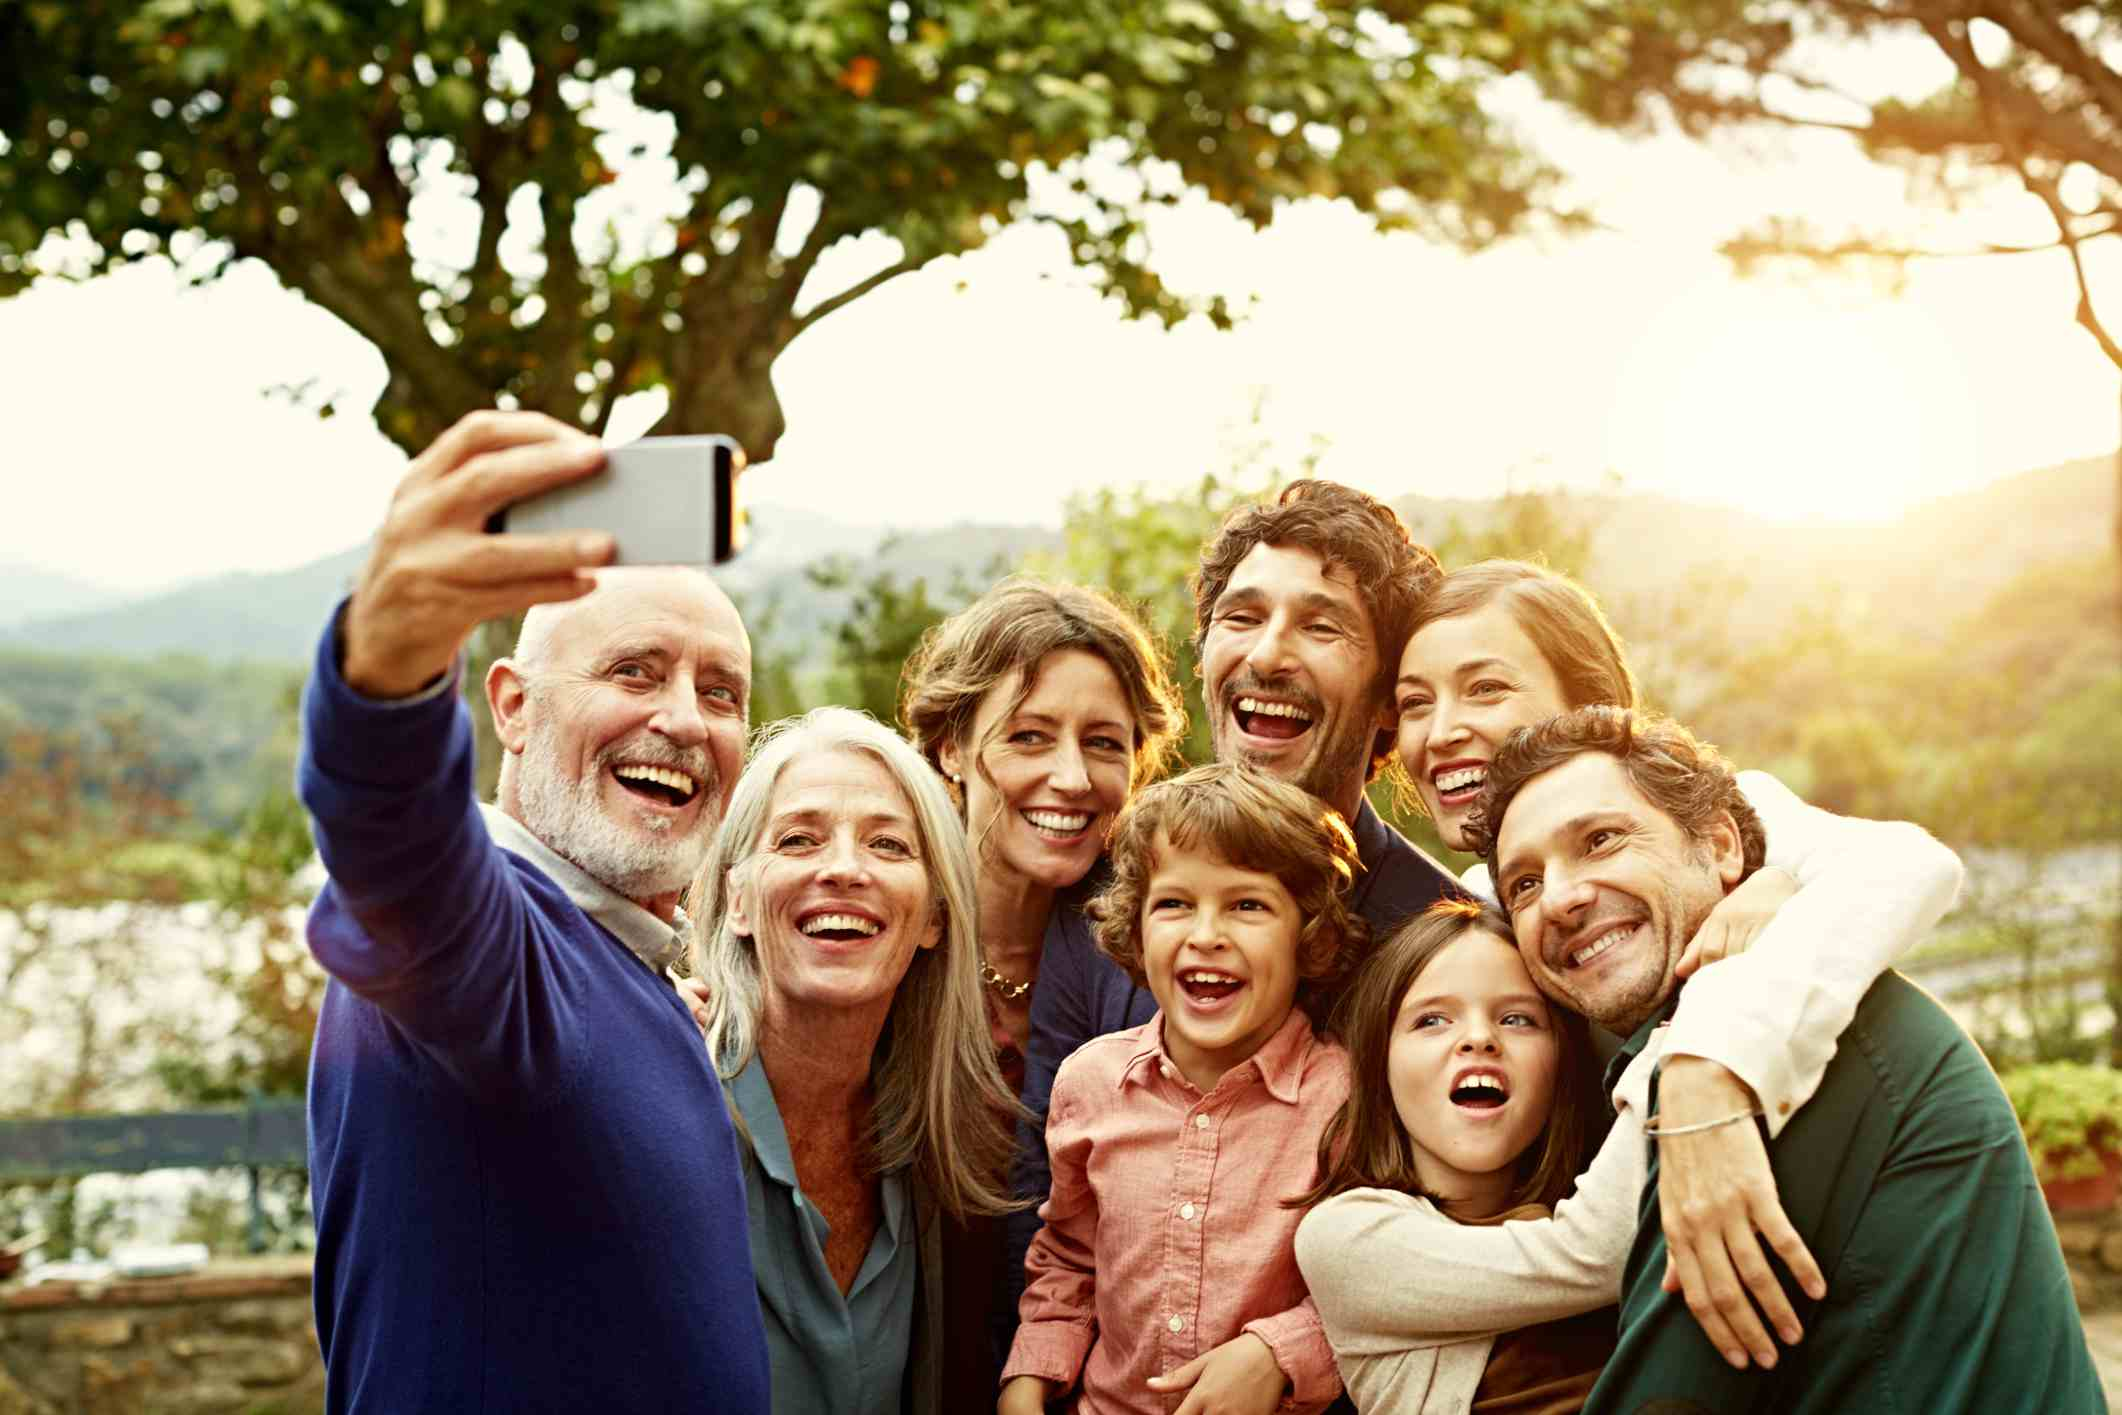
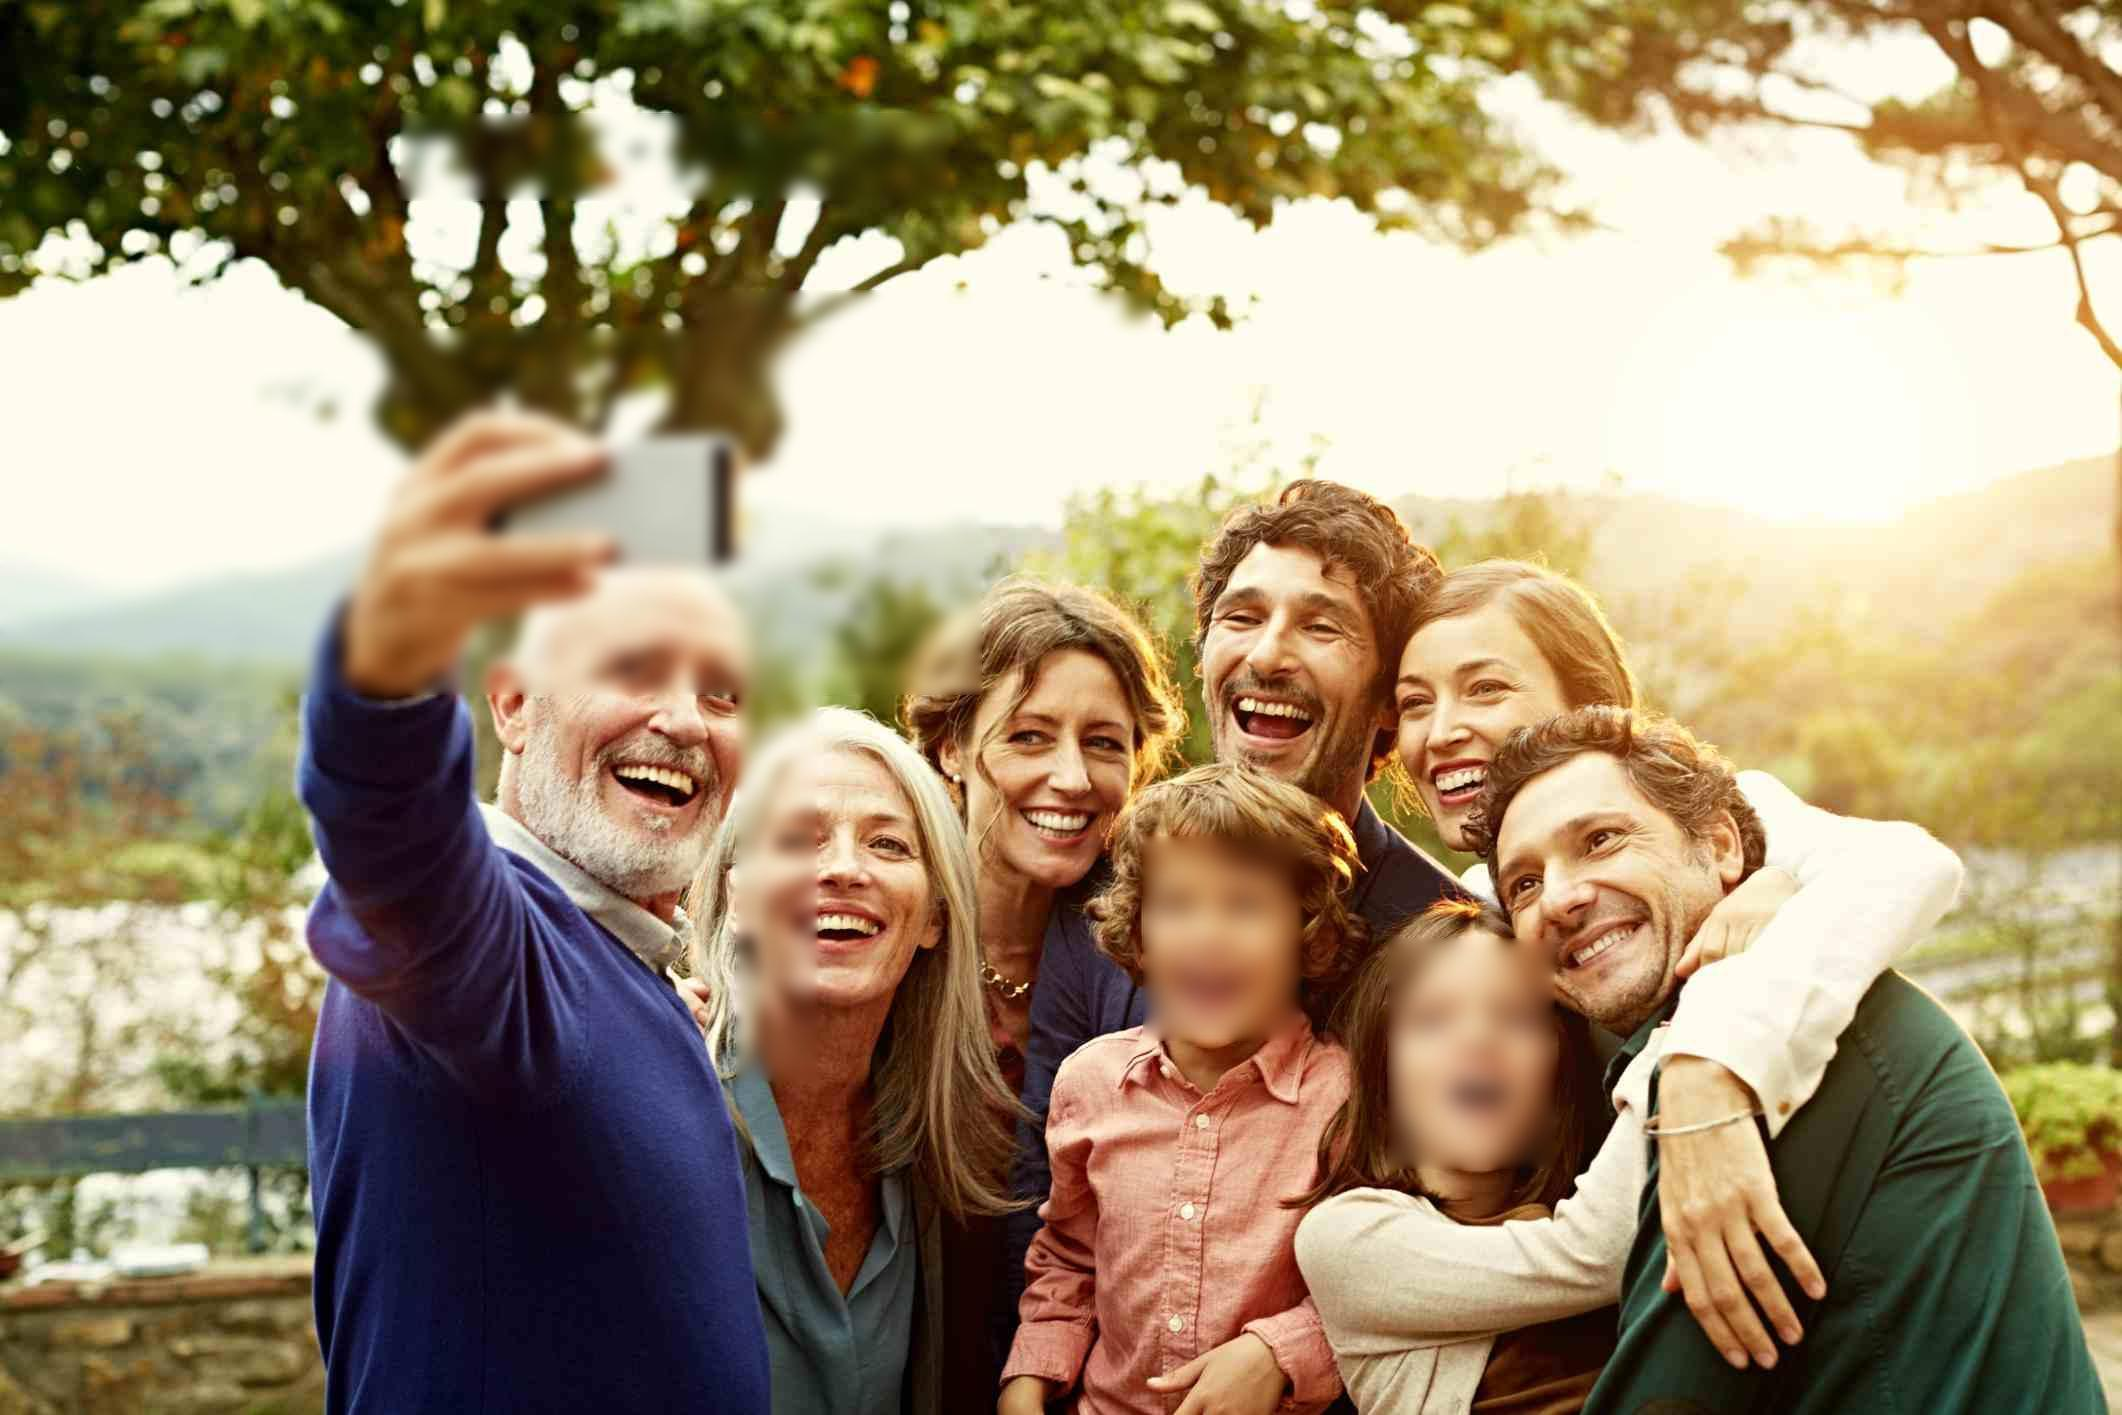
adding styles

diff --git a/django_aitor/templates/images_app/index.html b/django_aitor/templates/images_app/index.html
@@ -7,15 +7,17 @@
         padding: 0;
         margin: 0;
         background-color: antiquewhite;
+        font-family: "Courier New", Courier, monospace;
+        font-weight: 800;
       }
 
       .formulario {
-        margin-top: 100px;
+        margin-top: 20px;
         display: flex;
         flex-direction: column;
         align-items: center;
         justify-content: space-around;
-        font-family: 'Courier New', Courier, monospace;
+        font-family: "Courier New", Courier, monospace;
         text-transform: uppercase;
         height: 200px;
         margin-bottom: 100px;
@@ -25,12 +27,12 @@
       .submit {
         border: 1px solid black;
         background-color: black;
+        border-radius: 3px;
         color: white;
-        font-family: 'Courier New', Courier, monospace;
+        font-family: "Courier New", Courier, monospace;
         text-transform: uppercase;
-        font-weight: 500;
+        font-weight: 800;
         padding: 5px;
-        
       }
 
       .submit:hover {
@@ -38,8 +40,8 @@
         padding: 7px;
       }
 
-      input[type=file] {
-        font-family: 'Courier New', Courier, monospace;
+      input[type="file"] {
+        font-family: "Courier New", Courier, monospace;
       }
 
       .menu {
@@ -60,14 +62,15 @@
       .danger {
         background-color: red;
         border: 1px solid red;
+        font-weight: 800;
       }
 
       a {
         color: white !important;
         text-decoration: none;
-        font-family: 'Courier New', Courier, monospace;
+        font-family: "Courier New", Courier, monospace;
         text-transform: uppercase;
-        font-weight: 500;
+        font-weight: 800;
       }
 
       .menu-div {
@@ -77,6 +80,46 @@
         justify-content: space-around;
         align-items: center;
       }
+
+      .titulo {
+        width: 100%;
+        height: 200px;
+        display: flex;
+        flex-direction: column;
+        align-items: center;
+        justify-content: center;
+        text-transform: uppercase;
+        font-weight: bold;
+        font-family: Impact, Haettenschweiler, "Arial Narrow Bold", sans-serif !important;
+        font-size: 3rem;
+        letter-spacing: 3px;
+      }
+
+      .com {
+        font-size: 10px !important;
+      }
+
+      .title-blur {
+        /* color: red !important; */
+        font-size: 80px;
+        /* background: -webkit-linear-gradient(rgb(255, 251, 132), #333);
+        -webkit-background-clip: text;
+        -webkit-text-fill-color: transparent; */
+        filter: blur(4px);
+        -webkit-filter: blur(4px);
+      }
+
+      footer {
+        width: 100%;
+        height: 20px;
+        display: flex;
+        align-items: center;
+        justify-content: center;
+        font-size: 0.9rem;
+        padding-top: 80px;
+      }
+
+
     </style>
     <meta charset="UTF-8" />
     <meta http-equiv="X-UA-Compatible" content="IE=edge" />
@@ -84,6 +127,9 @@
     <title>Faces</title>
   </head>
   <body>
+    <div class="titulo">
+      <div>Cariño, le he hecho <span class="title-blur">BLUR</span> a LOS NIÑOS<span class="com">.com</span> </div>
+    </div>
     <form method="post" enctype="multipart/form-data" class="formulario">
       {% csrf_token %} {{ form }}
       <input class="submit" type="submit" value="Upload" />
@@ -92,5 +138,13 @@
       <a class="menu" href="{% url 'display_pics' %}">All pics</a>
       <a class="menu danger" href="{% url 'delete' %}">Delete all</a>
     </div>
+
+    <footer>
+      <div>
+        <span>Aitor Trillo Díaz</span>
+        <span>&#169;</span>
+        <span>2023</span>
+      </div>
+    </footer>
   </body>
 </html>

diff --git a/django_aitor/templates/images_app/pic.html b/django_aitor/templates/images_app/pic.html
@@ -1,6 +1,114 @@
 <!DOCTYPE html>
 <html lang="en">
   <head>
+    <style>
+      body {
+        padding-left: 50px !important;
+        padding-right: 50px !important;
+        width: 100%;
+        padding: 0;
+        margin: 0;
+        background-color: antiquewhite !important;
+        font-family: 'Courier New', Courier, monospace !important;
+      }
+
+      .formulario {
+        margin-top: 100px;
+        display: flex;
+        flex-direction: column;
+        align-items: center;
+        justify-content: space-around;
+        font-family: 'Courier New', Courier, monospace;
+        text-transform: uppercase;
+        height: 200px;
+        margin-bottom: 100px;
+        font-size: 1.3rem;
+      }
+
+      .submit {
+        border: 1px solid black;
+        background-color: black;
+        color: white;
+        font-family: 'Courier New', Courier, monospace;
+        text-transform: uppercase;
+        font-weight: 500;
+        padding: 5px;
+        
+      }
+
+      .submit:hover {
+        cursor: pointer;
+        padding: 7px;
+      }
+
+      input[type=file] {
+        font-family: 'Courier New', Courier, monospace;
+      }
+
+      .menu {
+        border: 1px solid black;
+        background-color: black;
+        border-radius: 3px;
+        padding: 5px;
+        display: flex;
+        width: 200px;
+        justify-content: center;
+        align-items: center;
+      }
+
+      .menu:hover {
+        padding: 7px;
+      }
+
+      .danger {
+        background-color: red;
+        border: 1px solid red;
+      }
+
+      a {
+        color: black !important;
+        text-decoration: none !important;
+        font-family: 'Courier New', Courier, monospace !important;
+        text-transform: uppercase;
+        font-weight: 800;
+      }
+
+      img {
+        border-radius: 3px;
+        box-shadow: 0;
+      }
+
+      img:hover {
+        box-shadow: 10px 5px 5px rgba(0, 0, 0, 0.517);
+      }
+
+      .menu-div {
+        display: flex;
+        height: 130px;
+        flex-direction: column;
+        justify-content: space-around;
+        align-items: center;
+      }
+
+      .blur {
+        width: 80px;
+        border: 1px solid black;
+        border-radius: 3px;
+        background-color: black;
+        color: white;
+        text-transform: uppercase;
+        padding: 5px;
+      }
+      
+      .blur:hover {
+        border: 1px solid white;
+        background-color: white;
+        color: black;
+        padding: 7px;
+      }
+
+
+    </style>
     <meta charset="UTF-8" />
     <meta http-equiv="X-UA-Compatible" content="IE=edge" />
     <meta name="viewport" content="width=device-width, initial-scale=1.0" />
@@ -9,16 +117,22 @@
     <link rel="stylesheet" href="https://unpkg.com/jcrop/dist/jcrop.css" />
     <script src="https://unpkg.com/jcrop"></script>
 
+    <link href="https://cdn.jsdelivr.net/npm/bootstrap@5.0.2/dist/css/bootstrap.min.css" rel="stylesheet" integrity="sha384-EVSTQN3/azprG1Anm3QDgpJLIm9Nao0Yz1ztcQTwFspd3yD65VohhpuuCOmLASjC" crossorigin="anonymous">
+
     <title>Editar foto {{ pic.id }}</title>
   </head>
   <body>
-    <a href="{% url 'display_pics' %}"> << Atrás </a>
+    <br>
+    <br>
+    <a href="{% url 'display_pics' %}"> < < Atrás </a>
     FOTO {{ pic.id }}
+    <br>
+    <br>
     <br />
     <img src="{{ pic.file.url }}" id="target" />
     <br />
 
-    <button id="blur">Blur</button>
+    <button class="blur" id="blur">Blur</button>
   </body>
   <script defer>
     let info;

diff --git a/django_aitor/templates/images_app/display_pics.html b/django_aitor/templates/images_app/display_pics.html
@@ -1,6 +1,93 @@
 <!doctype html>
 <html lang="en">
   <head>
+    <style>
+      body {
+        width: 100%;
+        padding: 0;
+        margin: 0;
+        background-color: antiquewhite;
+        font-family: 'Courier New', Courier, monospace;
+      }
+
+      .formulario {
+        margin-top: 100px;
+        display: flex;
+        flex-direction: column;
+        align-items: center;
+        justify-content: space-around;
+        font-family: 'Courier New', Courier, monospace;
+        text-transform: uppercase;
+        height: 200px;
+        margin-bottom: 100px;
+        font-size: 1.3rem;
+      }
+
+      .submit {
+        border: 1px solid black;
+        background-color: black;
+        color: white;
+        font-family: 'Courier New', Courier, monospace;
+        text-transform: uppercase;
+        font-weight: 500;
+        padding: 5px;
+        
+      }
+
+      .submit:hover {
+        cursor: pointer;
+        padding: 7px;
+      }
+
+      input[type=file] {
+        font-family: 'Courier New', Courier, monospace;
+      }
+
+      .menu {
+        border: 1px solid black;
+        background-color: black;
+        border-radius: 3px;
+        padding: 5px;
+        display: flex;
+        width: 200px;
+        justify-content: center;
+        align-items: center;
+      }
+
+      .menu:hover {
+        padding: 7px;
+      }
+
+      .danger {
+        background-color: red;
+        border: 1px solid red;
+      }
+
+      a {
+        color: black !important;
+        text-decoration: none !important;
+        font-family: 'Courier New', Courier, monospace;
+        text-transform: uppercase;
+        font-weight: 800;
+      }
+
+      img {
+        border-radius: 3px;
+        box-shadow: 0;
+      }
+
+      img:hover {
+        box-shadow: 10px 5px 5px rgba(0, 0, 0, 0.517);
+      }
+
+      .menu-div {
+        display: flex;
+        height: 130px;
+        flex-direction: column;
+        justify-content: space-around;
+        align-items: center;
+      }
+    </style>
     <!-- Required meta tags -->
     <meta charset="utf-8">
     <meta name="viewport" content="width=device-width, initial-scale=1">
@@ -11,7 +98,10 @@
   </head>
   <body class="container " style="padding-top: 5%;">
     <div class="row">
-      <a href="{% url 'index' %}">Go back</a>
+      <a href="{% url 'index' %}"> < < Go back</a>
+      <br>
+      <br>
+      <br>
         {% for x in context %}
         <div class="col-md-4">
           <div class="thumbnail">

diff --git a/django_aitor/images_app/views.py b/django_aitor/images_app/views.py
@@ -80,7 +80,7 @@ def blur(request, id):
         w = int(coord['w'])
         h = int(coord['h'])
         region = img.crop((x, y, x + w, y + h))
-        for i in range(0, 20):
+        for i in range(0, 40):
             region = region.filter(ImageFilter.BLUR)
         img.paste(region, (x, y, x + w, y + h))
 
